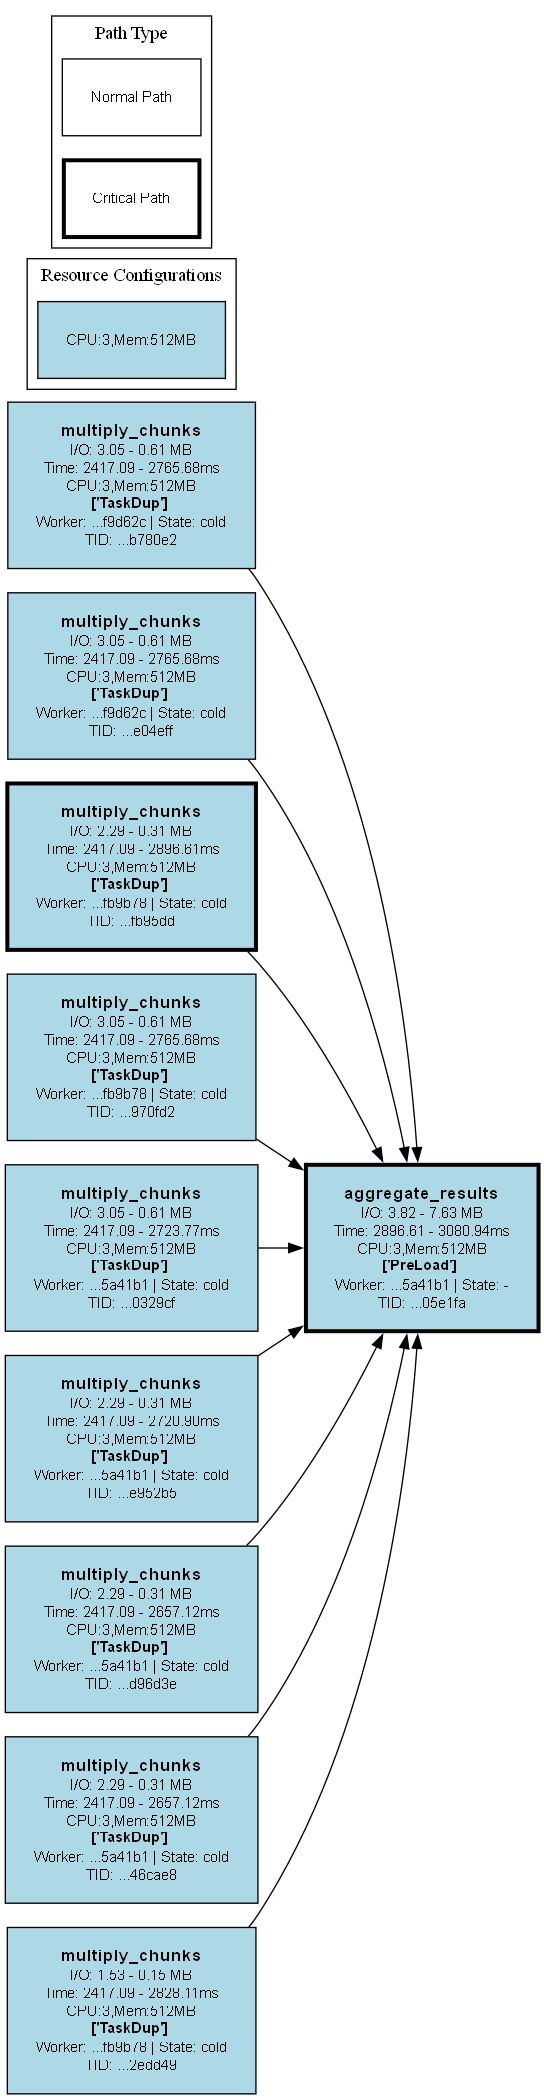
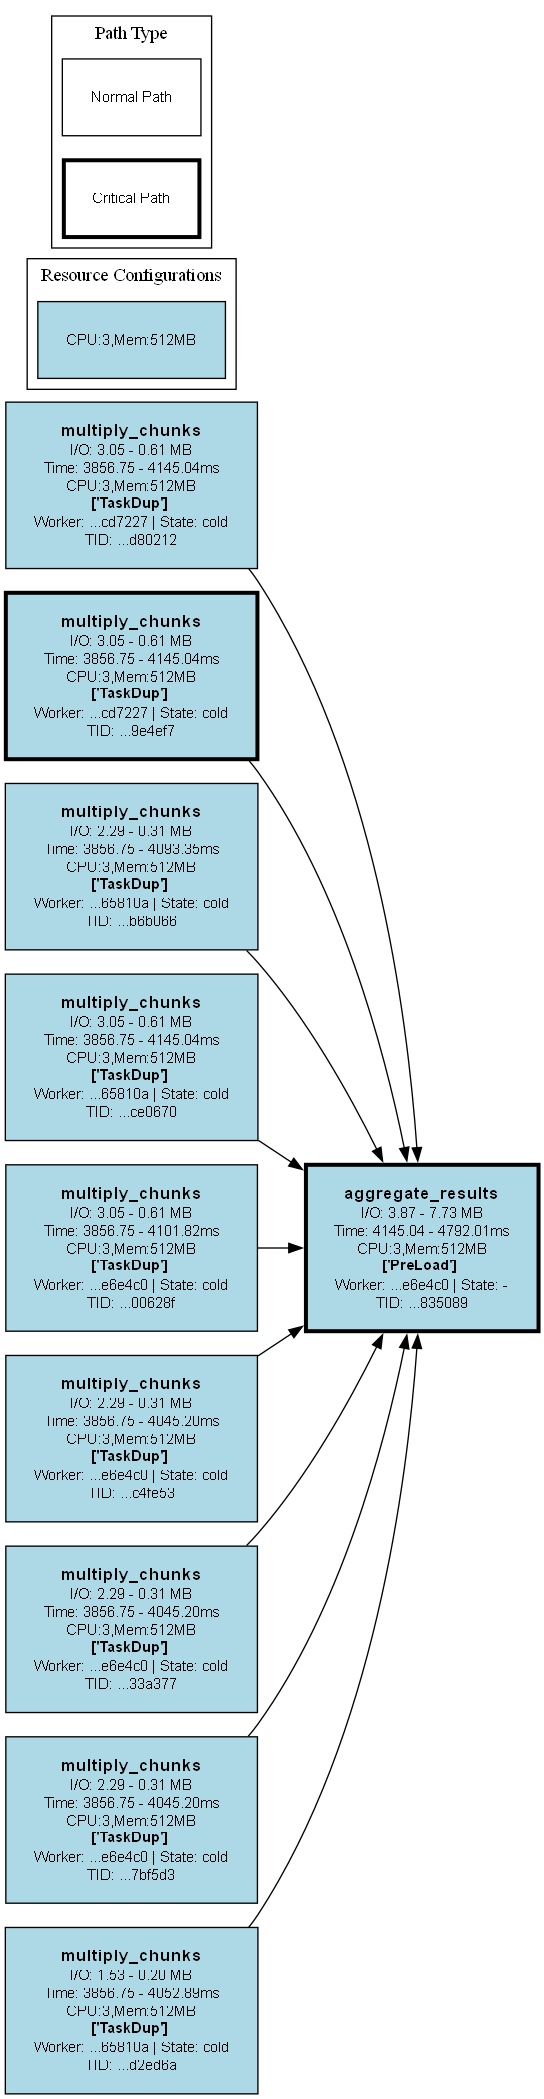
preload optimization correctly being applied and measured

diff --git a/src/planning/optimizations/preload.py b/src/planning/optimizations/preload.py
@@ -29,11 +29,11 @@ class PreLoadOptimization(TaskOptimization):
     MIN_DEPENDENCIES_TO_APPLY_OPTIMIZATION = 5
 
     # for upstream tasks
-    preloading_complete_events: dict[str, asyncio.Event] = field(default_factory=dict)
     preloading_subscription_ids: dict[str, str] = field(default_factory=dict) # dependent task + upstream task -> subscription id
     # Flag that indicates if starting new preloading for upstream tasks of this task is allowed or not
     allow_new_preloads: bool = True
     _lock: asyncio.Lock = field(default_factory=asyncio.Lock)
+    _current_preloading_event: tuple[str, asyncio.Event] = ("", asyncio.Event()) # task id + event
 
     @property
     def name(self): return "PreLoad"
@@ -136,9 +136,8 @@ class PreLoadOptimization(TaskOptimization):
         if this_worker_id is None: 
             return # Flexible workers can't look ahead for their tasks to see if they have preload
 
-        async def perform_preloading(upstream_task: DAGTaskNode, dependent_task: DAGTaskNode, annotation: PreLoadOptimization, intermediate_storage: Storage, metadata_storage: Storage, dag: FullDAG):
+        async def perform_preloading(subscription_id: str | None, upstream_task: DAGTaskNode, dependent_task: DAGTaskNode, annotation: PreLoadOptimization, intermediate_storage: Storage, metadata_storage: Storage, dag: FullDAG):
             logger.info(f"[PRELOADING] Task: {upstream_task.id.get_full_id()} output is ready!!")
-
             async with annotation._lock: # keep the lock so that only 1 preloading can happen at a time
                 if subscription_id is not None:
                     await metadata_storage.unsubscribe(
@@ -146,17 +145,20 @@ class PreLoadOptimization(TaskOptimization):
                         subscription_id
                     )
                 if not annotation.allow_new_preloads: return
-                # annotation.preloading_complete_events[upstream_task.id.get_full_id()] = asyncio.Event()
+                # If all the upstream tasks that are assigned to this worker have a result. let that branch continue
+                if all([unode.cached_result is not None for unode in dependent_task.upstream_nodes if unode.worker_config.worker_id is not None and unode.worker_config.worker_id == this_worker_id]):
+                    return
 
+                ev = asyncio.Event()
+                annotation._current_preloading_event = (upstream_task.id.get_full_id(), ev)
                 logger.info(f"[PRELOADING - STARTED] Task: {upstream_task.id.get_full_id()}")
-                dependent_task.metrics.optimization_metrics.append(
-                    PreLoadOptimization.OptimizationMetrics(preloaded=upstream_task.id)
-                )
+                dependent_task.metrics.optimization_metrics.append(PreLoadOptimization.OptimizationMetrics(preloaded=upstream_task.id))
 
                 _timer = Timer()
                 serialized_data: Any = await intermediate_storage.get(upstream_task.id.get_full_id_in_dag(dag))
                 time_to_fetch_ms = _timer.stop()
                 deserialized_task_output = cloudpickle.loads(serialized_data)
+                upstream_task.cached_result = _CachedResultWrapper(deserialized_task_output)
 
                 dependent_task.metrics.input_metrics.input_download_metrics[
                     upstream_task.id.get_full_id()
@@ -165,15 +167,13 @@ class PreLoadOptimization(TaskOptimization):
                     time_ms=time_to_fetch_ms
                 )
 
-                dag.get_node_by_id(upstream_task.id).cached_result = _CachedResultWrapper(deserialized_task_output)
-
-                # annotation.preloading_complete_events[upstream_task.id.get_full_id()].set()
+                ev.set()
                 logger.info(f"[PRELOADING - DONE] Task: {upstream_task.id.get_full_id()}")
 
         # Only executes once, even if there are multiple tasks with this annotation
         def _on_preload_task_completed_builder(dependent_task: DAGTaskNode, upstream_task: DAGTaskNode, annotation: PreLoadOptimization, intermediate_storage: Storage, metadata_storage: Storage, dag: FullDAG):
             async def _callback(_: dict, subscription_id: str | None = None):
-                await perform_preloading(upstream_task, dependent_task, annotation, intermediate_storage, metadata_storage, dag)
+                await perform_preloading(subscription_id, upstream_task, dependent_task, annotation, intermediate_storage, metadata_storage, dag)
 
             return _callback
 
@@ -196,7 +196,7 @@ class PreLoadOptimization(TaskOptimization):
                 # may already exist if our worker was launched afterwards
                 if await intermediate_storage.exists(unode.id.get_full_id_in_dag(dag)):
                     logger.info(f"[PRELOADING - ALREADY EXISTS] Task: {unode.id.get_full_id()} | Dependent task: {current_node.id.get_full_id()}")
-                    asyncio.create_task(perform_preloading(unode, current_node, preload_optimization, intermediate_storage, metadata_storage, dag), name=f"{COROTAG_PRELOAD}_{unode.id.get_full_id()}")
+                    asyncio.create_task(perform_preloading(None, unode, current_node, preload_optimization, intermediate_storage, metadata_storage, dag), name=f"{COROTAG_PRELOAD}_{unode.id.get_full_id()}")
                     continue
                 subscription_id = await metadata_storage.subscribe(
                     f"{TASK_COMPLETED_EVENT_PREFIX}{unode.id.get_full_id_in_dag(dag)}", 
@@ -218,9 +218,8 @@ class PreLoadOptimization(TaskOptimization):
         
         preload_optimization = task.try_get_optimization(PreLoadOptimization)
         if preload_optimization:
-            async with preload_optimization._lock: # wait for lock, meaning no task is preloading anymore
-                preload_optimization.allow_new_preloads = False
-                logger.info(f"[PRELOAD - HANDLE_INPUTS] No more preloading allowed")
+            logger.info(f"[PRELOAD - HANDLE_INPUTS] No more preloading allowed")
+            preload_optimization.allow_new_preloads = False
 
         for t in task.upstream_nodes:
             subscription_id = preload_optimization.preloading_subscription_ids.get(f"{task.id.get_full_id()}{t.id.get_full_id()}") if preload_optimization else None
@@ -234,4 +233,13 @@ class PreLoadOptimization(TaskOptimization):
                     await metadata_storage.unsubscribe(f"{TASK_COMPLETED_EVENT_PREFIX}{t.id.get_full_id_in_dag(subdag)}", subscription_id=subscription_id)
                 upstream_tasks_to_fetch.append(t)
 
-        return (upstream_tasks_to_fetch, [], None)
+        current_preloading_task_id, current_preloading_event = preload_optimization._current_preloading_event if preload_optimization and not preload_optimization._current_preloading_event[1].is_set() else (None, None)
+
+        if current_preloading_event and not current_preloading_event.is_set():
+            logger.info(f"[PRELOAD - HANDLE_INPUTS] Waiting for preloading to complete for task: {current_preloading_task_id}")
+
+        return (
+            upstream_tasks_to_fetch,
+            [current_preloading_task_id] if current_preloading_task_id is not None else [], 
+            current_preloading_event.wait() if current_preloading_event is not None and not current_preloading_event.is_set() else None
+        )

diff --git a/src/storage/redis_storage.py b/src/storage/redis_storage.py
@@ -151,16 +151,14 @@ class RedisStorage(storage.Storage):
             conn = await self._get_or_create_connection()
             self._pubsub = conn.pubsub()
         if self._pubsub_task is None or self._pubsub_task.done():
-            self._pubsub_task = asyncio.create_task(self._pubsub_listener(), name="redis_pubsub_listener")
+            self._pubsub_task = asyncio.create_task(self._pubsub_listener(), name="background_redis_pubsub_listener")
 
     async def _pubsub_listener(self):
         """Single coroutine listening for all messages and dispatching them."""
         try:
-            logger.info(f"PubSub setup listener")
             async for message in self._pubsub.listen():  # type: ignore
                 if message["type"] != "message":
                     continue
-                logger.info(f"Received message: {message}")
 
                 channel_name = message["channel"].decode() if isinstance(message["channel"], bytes) else message["channel"]
 
@@ -227,53 +225,6 @@ class RedisStorage(storage.Storage):
                 await self._pubsub.unsubscribe(channel)  # type: ignore
                 logger.info(f"No more subscribers, unsubscribed Redis channel {channel}")
             
-    async def _channel_message_handler(self, pubsub: Any, channel: str) -> None:
-        """
-        Background task to handle incoming messages for all callbacks on a channel.
-        
-        Args:
-            pubsub: The PubSub instance for this channel
-            channel: The channel being handled
-        """
-        try:
-            async for message in pubsub.listen():
-                # Filter messages by type and channel
-                if message["type"] == "message":
-                    channel_name = message["channel"].decode() if isinstance(message["channel"], bytes) else message["channel"]
-                    if str(channel_name) == str(channel):
-                        # Get all active subscriptions for this channel
-                        if channel in self._channel_subscriptions:
-                            # Create a snapshot of subscriptions to avoid "dictionary changed size during iteration" error
-                            subscriptions_snapshot = list(self._channel_subscriptions[channel].items())
-                            
-                            # Process message for each subscription
-                            for subscription_id, sub_info in subscriptions_snapshot:
-                                # Double-check that subscription still exists (it might have been removed)
-                                if (channel in self._channel_subscriptions and 
-                                    subscription_id in self._channel_subscriptions[channel]):
-                                    try:
-                                        # Decode message if requested for this subscription
-                                        message_data = message.copy()
-                                        if sub_info.decode_responses and isinstance(message_data["data"], bytes):
-                                            message_data["data"] = message_data["data"].decode("utf-8")
-                                        
-                                        # Call the callback with message and subscription_id
-                                        await self._simulate_network_latency()
-                                        if asyncio.iscoroutinefunction(sub_info.callback):
-                                            await sub_info.callback(message_data, subscription_id)
-                                        else:
-                                            sub_info.callback(message_data, subscription_id)
-                                            
-                                    except Exception as e:
-                                        logger.error(f"Error in callback {subscription_id} for channel {channel}: {e}")
-                                        # Don't raise here - we want to continue processing other callbacks
-                                        traceback.print_exc()
-        except asyncio.CancelledError:
-            logger.debug(f"Message handler for {channel} was cancelled")
-        except Exception as e:
-            logger.error(f"Error in message handler for {channel}: {e}")
-            raise e
-    
     async def _delete_matching_keys(self, conn: Redis, match_pattern: str) -> int:
         """Helper method to delete keys matching a pattern using scan_iter.
         
@@ -314,7 +265,7 @@ class RedisStorage(storage.Storage):
             If none are True, performs an exact key match delete.
         """
         await self._simulate_network_latency()
-        conn, _ = await self._get_or_create_connection()
+        conn = await self._get_or_create_connection()
         
         # Count how many of the flags are True
         match_flags = sum([bool(pattern), bool(prefix), bool(suffix)])

diff --git a/_metadata_analysis/global_planning_analysis_dashboard.py b/_metadata_analysis/global_planning_analysis_dashboard.py
@@ -22,6 +22,9 @@ from src.storage.prefixes import DAG_PREFIX
 from src.dag.dag import FullDAG
 from src.storage.metadata.metrics_types import FullDAGPrepareTime, WorkerStartupMetrics, DAGResourceUsageMetrics
 from src.utils.timer import Timer
+from src.planning.optimizations.preload import PreLoadOptimization
+from src.planning.optimizations.taskdup import TaskDupOptimization
+from src.planning.optimizations.prewarm import PreWarmOptimization
 
 def get_redis_connection(port: int = 6379):
     return redis.Redis(
@@ -38,6 +41,9 @@ class WorkflowInstanceTaskInfo:
     metrics: TaskMetrics
     input_size_downloaded_bytes: int
     output_size_uploaded_bytes: int
+    
+    optimization_preloads_done: int
+    optimization_task_dups_done: int
 
 @dataclass
 class WorkflowInstanceInfo:
@@ -115,7 +121,9 @@ def get_workflows_information(metadata_storage_conn: redis.Redis) -> tuple[List[
                         t.id.get_full_id(), 
                         cloudpickle.loads(td),
                         -1,
-                        -1
+                        -1,
+                        0,
+                        0
                     )
                     for t, td in zip(dag._all_nodes.values(), tasks_data) if td
                 ]
@@ -128,6 +136,10 @@ def get_workflows_information(metadata_storage_conn: redis.Redis) -> tuple[List[
                     total_inputs_downloaded += task.input_size_downloaded_bytes
                     total_outputs_uploaded += task.output_size_uploaded_bytes
 
+                    if tm.optimization_metrics:
+                        task.optimization_preloads_done = len([om for om in tm.optimization_metrics if isinstance(om, PreLoadOptimization.OptimizationMetrics)])
+                        task.optimization_task_dups_done = len([om for om in tm.optimization_metrics if isinstance(om, TaskDupOptimization.OptimizationMetrics)])
+                    
                 # DAG submission metrics
                 submission_key = f"{MetadataStorage.USER_DAG_SUBMISSION_PREFIX}{dag.master_dag_id}"
                 submission_data: Any = metadata_storage_conn.get(submission_key)

diff --git a/src/workers/worker.py b/src/workers/worker.py
@@ -188,7 +188,15 @@ class Worker(ABC):
                     await asyncio.gather(*(_fetch_task_result(utask) for utask in tasks_to_fetch))
 
                 # Handle wait_until_coroutine if present
-                if wait_until_coroutine: await wait_until_coroutine
+                if wait_until_coroutine is not None: 
+                    logger.info(f"[WAIT UNTIL] Waiting for wait_until_coroutine to complete for task: {current_task.id.get_full_id()}")
+                    await wait_until_coroutine
+                    logger.info(f"[WAIT UNTIL] Complete for task: {current_task.id.get_full_id()}")
+                    # wait_until_coroutine may have fetched some results, we need to use them
+                    for utask in current_task.upstream_nodes:
+                        utask_id = utask.id.get_full_id()
+                        if utask_id not in task_dependencies and utask.cached_result is not None:
+                            task_dependencies[utask_id] = utask.cached_result.result
 
                 current_task.metrics.input_metrics.tp_total_time_waiting_for_inputs_ms = _download_dependencies_timer.stop() if len(current_task.upstream_nodes) > 0 and any([t.worker_config.worker_id != self.my_resource_configuration.worker_id for t in current_task.upstream_nodes]) else None
 

diff --git a/_examples/original/_run_experiments.py b/_examples/original/_run_experiments.py
@@ -8,14 +8,13 @@ WORKFLOWS_PATHS = [
     'gemm.py',
     'tree_reduction.py',
     'text_analysis.py',
-    # 'image_transformer.py',
-    # 'montage.py',
+    'image_transformer.py',
 ]
 
 ITERATIONS_PER_ALGORITHM = 4
 # ALGORITHMS = ['wukong', 'wukong-opt', 'uniform-opt', 'non-uniform']
-ALGORITHMS = ['uniform', 'uniform-opt', 'non-uniform']
-# ALGORITHMS = ['uniform', 'uniform-opt', 'non-uniform', 'wukong', 'wukong-opt']
+# ALGORITHMS = ['uniform', 'uniform-opt', 'non-uniform']
+ALGORITHMS = ['uniform', 'uniform-opt', 'non-uniform', 'wukong', 'wukong-opt']
 SLAS = ['50']
 # SLAS = ['50', '75', '90', '95', '99']
 

diff --git a/src/docker_worker_handler/worker.py b/src/docker_worker_handler/worker.py
@@ -259,7 +259,7 @@ async def main():
         #* 6) Wait for remaining coroutines to finish. 
         # *     REASON: Just because the final result is ready doesn't mean all work is done (emitting READY events, etc...)
         while True:
-            pending = [t for t in asyncio.all_tasks() if t is not asyncio.current_task() if COROTAG_DUP not in t.get_name()]
+            pending = [t for t in asyncio.all_tasks() if t is not asyncio.current_task() if "background" not in t.get_name()]
             if not pending: 
                 break
 

diff --git a/src/planning/optimizations/taskdup.py b/src/planning/optimizations/taskdup.py
@@ -17,7 +17,7 @@ DUPPABLE_TASK_MAX_EXEC_TIME_MS: float = 2_000
 # if task input size exceeds 10MB, don't allow dupping
 DUPPABLE_TASK_MAX_INPUT_SIZE: int = 10 * 1024 * 1024
 DUPPABLE_TASK_STARTED_PREFIX = "taskdup-task-started-"
-DUPPABLE_TASK_TIME_SAVED_THRESHOLD_MS = 1_500 # the least amount of time we need to save to justify duplication
+DUPPABLE_TASK_TIME_SAVED_THRESHOLD_MS = 1_000 # the least amount of time we need to save to justify duplication
 
 @dataclass
 class TaskDupOptimization(TaskOptimization, WorkerExecutionLogic):

diff --git a/src/docker_workers_gateway/container_pool_executor.py b/src/docker_workers_gateway/container_pool_executor.py
@@ -57,7 +57,7 @@ class ContainerPoolExecutor:
             [
                 "docker", "exec", "-i", 
                 "-e", "TZ=UTC-1", 
-                "-e", "LOGS=1",
+                "-e", "LOGS=0",
                 "-e", f"HOST_OS={platform}",
                 container_id, "sh"
             ],

diff --git a/src/planning/predictions/predictions_provider.py b/src/planning/predictions/predictions_provider.py
@@ -178,7 +178,7 @@ class PredictionsProvider:
         ]
 
         download_k_base = 1.15
-        upload_k_base = 1
+        upload_k_base = 1.04
 
         prediction_key = ""
         if len(_matching_samples) >= self.MIN_SAMPLES_OF_SAME_RESOURCE_CONFIGURATION:

diff --git a/src/utils/coroutine_tags.py b/src/utils/coroutine_tags.py
@@ -1,2 +1,2 @@
-COROTAG_DUP = "coro-dup"
+COROTAG_DUP = "background-coro-dup"
 COROTAG_PRELOAD = "coro-preload"

diff --git a/TODO.md b/TODO.md
@@ -1,7 +1,7 @@
 - Dashboard
     [IMPLEMENTATION]
     - Dashboard
-        - Check preload metrics
+        - [DONE] Check preload metrics
         - Check taskdup metrics
         - Check prewarm metrics
     - debug: check if preload is happening and results are being used (gemm is a good test)
